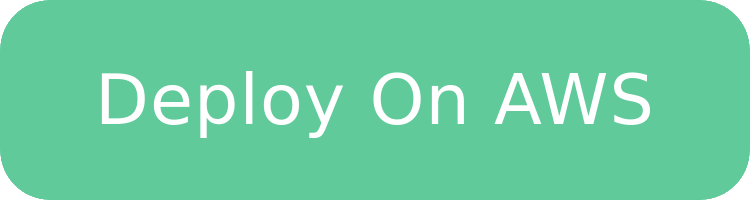
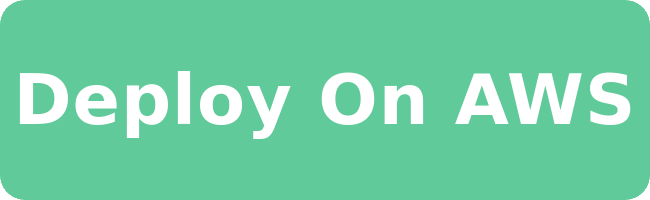
docs(readme): update deploy button positioning and style

diff --git a/README.md b/README.md
@@ -43,6 +43,10 @@ For more, check out our Demo.
 
 ## ⚙ Quick Start
 
+<a href="https://docs.chaosgenius.io/docs/setup/local-setup/"><img src=".github/images/local_button_noborder.png" width="120px" /><a/>
+<a href="https://docs.chaosgenius.io/docs/setup/aws-setup/"><img src=".github/images/aws_button_noborder.png" width="120px" /><a/>
+<a href="https://docs.chaosgenius.io/docs/setup/gcp-setup/"><img src=".github/images/gcp_button_noborder.png" width="120px" /><a/>
+
 ```
 git clone https://github.com/chaos-genius/chaos_genius
 
@@ -54,12 +58,6 @@ docker-compose up
 Visit [http://localhost:8080](http://localhost:8080/)
 
 Follow this [quick start guide](https://docs.chaosgenius.io/docs/Quick_Start/prereqs) for more details including how to connect a data source, define your first KPI and configure anomaly detection.
-
-<p align="center">
-<a href="https://docs.chaosgenius.io/docs/setup/local-setup/"><img src=".github/images/local_button_noborder.png" width="150px" /><a/>
-<a href="https://docs.chaosgenius.io/docs/setup/aws-setup/"><img src=".github/images/aws_button_noborder.png" width="150px" /><a/>
-<a href="https://docs.chaosgenius.io/docs/setup/gcp-setup/"><img src=".github/images/gcp_button_noborder.png" width="150px" /><a/>
-</p>
 
 ## 🧰 Key Features
 
